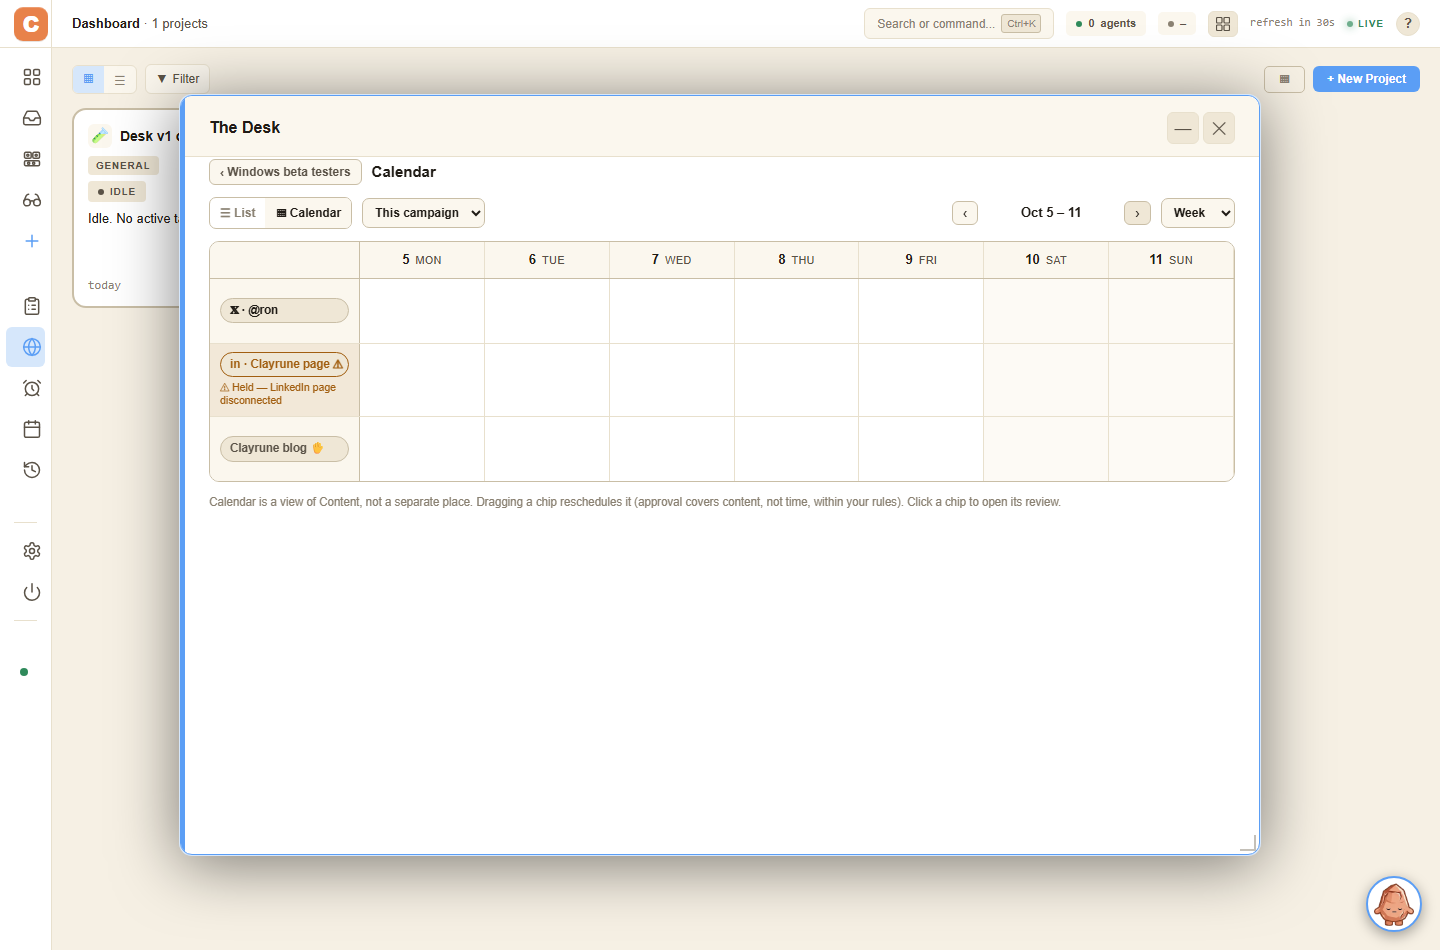
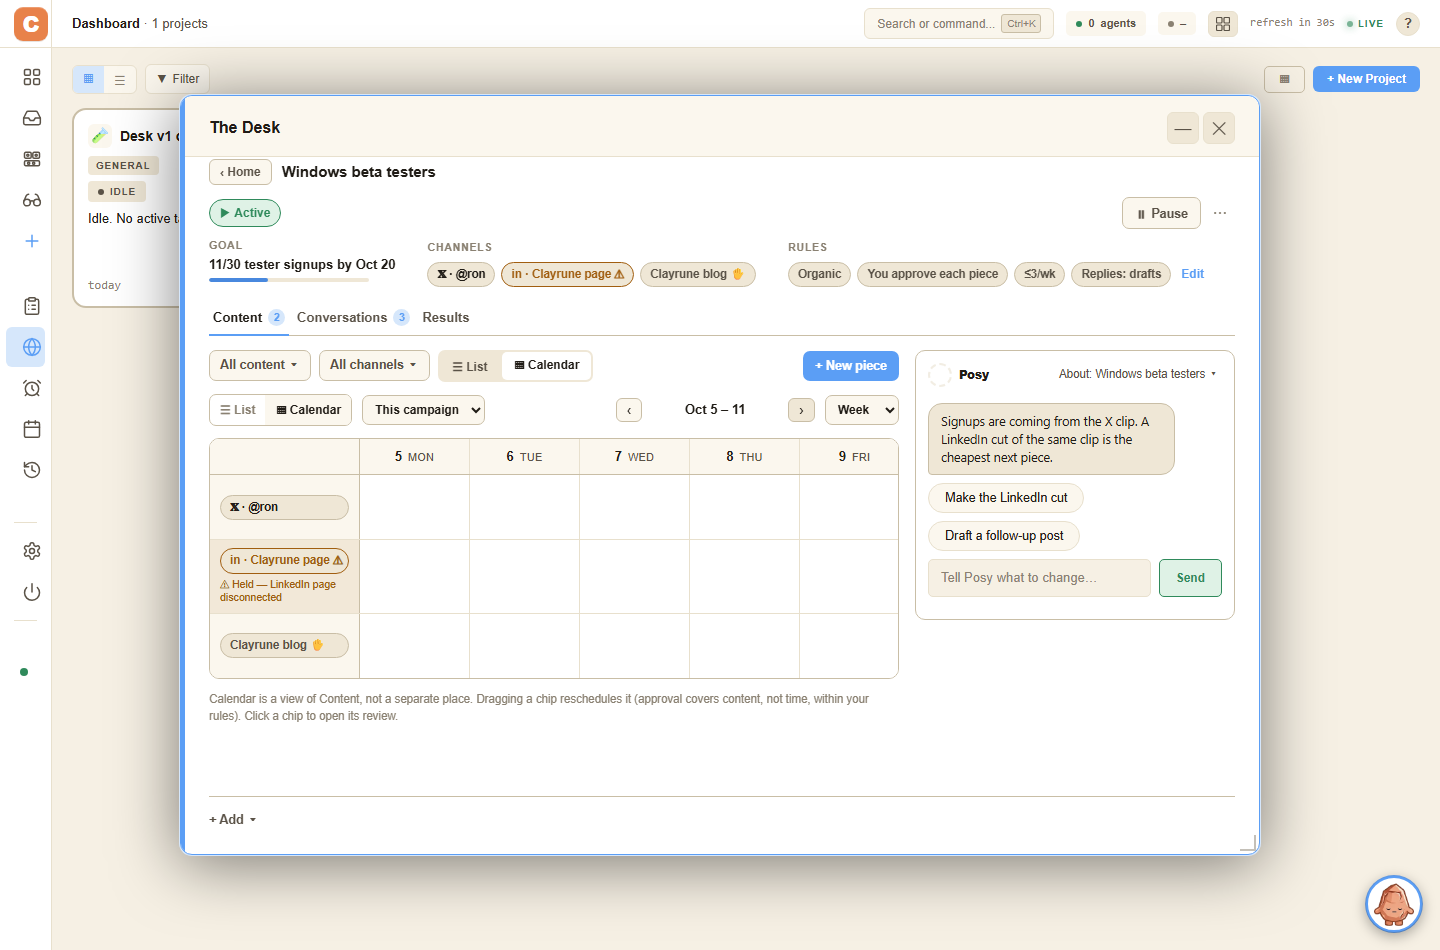
feat(MC-977): T2 — persistent campaign frame, in-place panels, Pause/Resume
Shell (desk-v1-shell.js): 'calendar'/'conversations'/'results' stop being
pushed routes. deskV1Nav aliases them to a new deskV1GotoCampaignPanel,
which patches the current campaign stack entry's params.panel in place
(same DOM node, no push) when already on that campaign, or pushes a fresh
campaign entry otherwise. _renderCampaignSkeleton now only fills the
summary/rightcol/addtray slots once; a new _renderCampaignPanel fills
just the tabstrip + tabbody, so a tab click never rebuilds the header or
Posy box. 'calendar' carries a one-shot calendarView flag into the
Content panel's existing List/Calendar toggle (T2a) rather than owning a
tab of its own.

Campaign (desk-v1-campaign.js): tab strip buttons call
deskV1GotoCampaignPanel instead of deskV1Nav; aria-selected reflects
params.panel. Added Pause/Resume (§6.2): a paused campaign's summary bar
shows Resume, which opens a confirm sheet naming the upcoming affected
work, then re-validates via DeskV1Kit.validatePlan plus an expiry check
(end date passed, post cap reached, a destination held). Spec's "Resume
routes to step 4" has no step 4 on this branch (T2 depends only on T1,
not T4/T5's setup wizard) — routes to the already-built rules-edit
popover instead with a toast naming why, rather than inventing the page.

Fixtures (desk-v1-fixtures.js): camp-1 (the one Active fixture campaign)
gets a `plan` object so Pause/Resume's validatePlan gate has something to
[…]

diff --git a/static/js/desk-v1-campaign.js b/static/js/desk-v1-campaign.js
@@ -116,7 +116,9 @@
       <div class="desk-v1-camp-summary-top">
         ${stateHTML}
         <div class="desk-v1-camp-summary-top-actions">
-          <button type="button" class="desk-v1-camp-pause-btn" data-pause-btn ${camp.state !== 'active' ? 'disabled' : ''}>⏸ Pause</button>
+          ${camp.state === 'paused'
+            ? `<button type="button" class="desk-v1-camp-pause-btn" data-resume-btn>▶ Resume</button>`
+            : `<button type="button" class="desk-v1-camp-pause-btn" data-pause-btn ${camp.state !== 'active' ? 'disabled' : ''}>⏸ Pause</button>`}
           ${camp.state !== 'archived' ? `<div class="desk-v1-camp-card-more">
             <button type="button" class="desk-v1-camp-card-morebtn" data-camp-more-btn aria-haspopup="menu" aria-label="More actions">⋯</button>
           </div>` : ''}
@@ -129,7 +131,7 @@
       </div>`;
 
     const goalBtn = el.querySelector('[data-goal-btn]');
-    if (goalBtn) goalBtn.onclick = () => deskV1Nav('results', { campaignId: camp.id });
+    if (goalBtn) goalBtn.onclick = () => window.deskV1GotoCampaignPanel('results', { campaignId: camp.id });
     const moreBtn = el.querySelector('[data-camp-more-btn]');
     if (moreBtn) moreBtn.onclick = (e) => {
       e.stopPropagation();
@@ -150,6 +152,8 @@
         undo: () => { camp.state = prev; deskV1FillCampaignSummary(el, params); },
       });
     };
+    const resumeBtn = el.querySelector('[data-resume-btn]');
+    if (resumeBtn) resumeBtn.onclick = () => _openResumeSheet(camp, el, params);
     // T2b owns the rules popover itself (docs/desk_v1_r0_plan.md T2a scope:
     // "Rule chips get an Edit hook only; the popover itself is T2b") — this
     // hook is the backward-compatible seam: undefined today, T2b defines
@@ -159,6 +163,73 @@
       if (typeof window.deskV1OpenRulesPopover === 'function') window.deskV1OpenRulesPopover(camp.id);
       else DeskV1Kit.toast('Editing rules lands with the rules popover (T2b).');
     };
+  }
+
+  // ── Pause / Resume (§6.2) ──────────────────────────────────────────────
+  // Resuming isn't a silent restart: it shows the upcoming work affected,
+  // then re-validates the plan (§4's shared `validatePlan` gate) plus an
+  // expiry check the bound table itself doesn't cover (an end date that has
+  // since passed, a post cap already reached, or a destination that went
+  // held while paused). `_isoToday()` mirrors desk-v1-rules.js's own
+  // `_isPastLocal` local-date convention rather than importing it (no
+  // cross-module import in static/js).
+  function _isoToday() {
+    const d = new Date();
+    return `${d.getFullYear()}-${String(d.getMonth() + 1).padStart(2, '0')}-${String(d.getDate()).padStart(2, '0')}`;
+  }
+  function _planExpiryReason(plan) {
+    if (!plan) return null;
+    if (plan.end && plan.end.date && plan.end.date < _isoToday()) return 'its end date has passed';
+    if (plan.end && plan.end.post_cap != null && plan.end.post_cap <= 0) return 'its post cap is reached';
+    const held = (plan.destinations || []).find((d) => { const ch = _channel(d.account); return ch && ch.health === 'held'; });
+    if (held) return `${(_channel(held.account) || {}).label || held.account} is held`;
+    return null;
+  }
+
+  // "3 posts resume: Tue 09:00 …" (§6.2) — the earliest still-scheduled
+  // version's own slot, same `_fmtWhenShort` weekday/time formatting the
+  // content cards already use for a scheduled version's detail line.
+  function _upcomingResumeText(camp) {
+    const versions = [];
+    _familiesFor(camp.id).forEach((f) => (f.versions || []).forEach((v) => {
+      if (_SCHEDULED_STATES.has(v.state) && v.publishAt) versions.push(v);
+    }));
+    versions.sort((a, b) => (a.publishAt < b.publishAt ? -1 : 1));
+    if (!versions.length) return 'Resuming restarts this campaign’s cadence. Missed slots are skipped, never posted late.';
+    const first = _fmtWhenShort(versions[0].publishAt);
+    const ch = _channel(versions[0].channelId);
+    const plural = versions.length === 1 ? 'post resumes' : 'posts resume';
+    return `${versions.length} ${plural}: ${first}${ch ? ` on ${ch.label}` : ''}. Missed slots are skipped, never posted late.`;
+  }
+
+  function _openResumeSheet(camp, summaryEl, params) {
+    DeskV1Kit.openConfirmSheet({
+      title: `Resume “${camp.name}”?`,
+      body: _upcomingResumeText(camp),
+      confirmLabel: 'Resume', cancelLabel: 'Cancel',
+      onConfirm: () => {
+        const validity = DeskV1Kit.validatePlan(camp.plan);
+        const expiryReason = _planExpiryReason(camp.plan);
+        if (!validity.ok || expiryReason) {
+          const reason = expiryReason || `it's missing ${validity.missing.map((m) => m.label).join(', ')}`;
+          // §6.2: "Resume routes to step 4 with only the changed terms, not
+          // a silent restart." Setup's step 4 (Review + start) is T4/T5,
+          // not built on this branch (T2 depends only on T1) — rather than
+          // invent that page, the nearest already-built surface for
+          // changing plan terms (the rules-edit popover, T2b) opens
+          // instead, and the toast says exactly why Resume didn't happen.
+          if (typeof window.deskV1OpenRulesPopover === 'function') window.deskV1OpenRulesPopover(camp.id);
+          DeskV1Kit.toast(`Can’t resume “${camp.name}” — ${reason}. Fix it, then resume.`);
+          return;
+        }
+        const prev = camp.state;
+        DeskV1Kit.commandBus.run({
+          label: `Resumed “${camp.name}”`,
+          do: () => { camp.state = 'active'; deskV1FillCampaignSummary(summaryEl, params); },
+          undo: () => { camp.state = prev; deskV1FillCampaignSummary(summaryEl, params); },
+        });
+      },
+    });
   }
 
   // ── Delete / Archive (item 3, MC-977 R0 UX pass; scope note from Dave/
@@ -305,6 +376,7 @@
   // ────────────────────────────────────────────────────────────────────────
   function deskV1FillCampaignTabStrip(el, params) {
     const campaignId = params.campaignId;
+    const panel = params.panel || 'content';
     const contentCount = _needsYouCount(campaignId);
     // §3.1: "Badge counts are needs-you items only" — for BOTH tabs. A reply
     // waiting ('needs_reply') or a row flagged for you ('needs_you'); stale,
@@ -314,12 +386,17 @@
       .filter((c) => c.state === 'needs_reply' || c.state === 'needs_you').length;
     el.innerHTML = `
       <div class="desk-v1-camp-tabs" role="tablist">
-        <button type="button" class="desk-v1-camp-tab" aria-selected="true" data-tab="content">Content${contentCount ? ` <span class="desk-v1-camp-tab-badge">${esc(contentCount)}</span>` : ''}</button>
-        <button type="button" class="desk-v1-camp-tab" aria-selected="false" data-tab="conversations">Conversations${convCount ? ` <span class="desk-v1-camp-tab-badge">${esc(convCount)}</span>` : ''}</button>
-        <button type="button" class="desk-v1-camp-tab" aria-selected="false" data-tab="results">Results</button>
+        <button type="button" class="desk-v1-camp-tab" aria-selected="${panel === 'content'}" data-tab="content">Content${contentCount ? ` <span class="desk-v1-camp-tab-badge">${esc(contentCount)}</span>` : ''}</button>
+        <button type="button" class="desk-v1-camp-tab" aria-selected="${panel === 'conversations'}" data-tab="conversations">Conversations${convCount ? ` <span class="desk-v1-camp-tab-badge">${esc(convCount)}</span>` : ''}</button>
+        <button type="button" class="desk-v1-camp-tab" aria-selected="${panel === 'results'}" data-tab="results">Results</button>
       </div>`;
-    el.querySelector('[data-tab="conversations"]').onclick = () => deskV1Nav('conversations', { campaignId });
-    el.querySelector('[data-tab="results"]').onclick = () => deskV1Nav('results', { campaignId });
+    // §2: tabs switch the panel IN PLACE — `deskV1GotoCampaignPanel` patches
+    // the current `campaign` stack entry's params rather than pushing a new
+    // one, so the frame this tab strip lives in is never rebuilt by a click
+    // on itself (desk-v1-shell.js's `_gotoCampaignPanel`).
+    el.querySelector('[data-tab="content"]').onclick = () => window.deskV1GotoCampaignPanel('content', { campaignId });
+    el.querySelector('[data-tab="conversations"]').onclick = () => window.deskV1GotoCampaignPanel('conversations', { campaignId });
+    el.querySelector('[data-tab="results"]').onclick = () => window.deskV1GotoCampaignPanel('results', { campaignId });
   }
 
   // ────────────────────────────────────────────────────────────────────────
@@ -348,6 +425,11 @@
       return;
     }
     const st = _ensureState(params.campaignId);
+    // §2/§8 calendar alias: `deskV1Nav('calendar', {campaignId})` lands on
+    // this same Content panel and asks it to open in calendar view once —
+    // consumed and dropped here so a later plain Content-tab click doesn't
+    // keep forcing calendar view back on.
+    if (params.calendarView) { st.view = 'calendar'; delete params.calendarView; }
     st.el = el;
     _renderTabBody();
   }

diff --git a/static/js/desk-v1-shell.js b/static/js/desk-v1-shell.js
@@ -26,14 +26,22 @@
     // route's back-button text (see _routeLabel/deskV1Render above), so a
     // future child of review would need a real label again.
     review:        { parent: 'campaign', label: '',             render: () => window.deskV1RenderReview },
-    calendar:      { parent: 'campaign', label: 'Calendar',     render: () => window.deskV1RenderCalendar },
     // Dynamic like _campaignLabel above: frame 12d's crumb title is the video
     // family's own title ("Install in two minutes"), not the static word
     // "Video" — falls back to it during intake (no family picked yet).
     video:         { parent: 'campaign', label: _videoLabel,   render: () => window.deskV1RenderVideo },
-    conversations: { parent: 'campaign', label: 'Conversations', render: () => window.deskV1RenderConversations },
-    results:       { parent: 'campaign', label: 'Results',      render: () => window.deskV1RenderResults },
   };
+
+  // T2 (§2, §8): conversations/results/calendar stop being separate routes —
+  // `deskV1Nav('results'|'conversations'|'calendar', params)` still works
+  // (existing deep links: Home's Needs-you row, the goal button, old smoke
+  // navigation) but now resolves to the persistent `campaign` frame with a
+  // panel switch instead of pushing a whole new stack entry/page. `calendar`
+  // has no tab of its own (it is the Content tab's List/Calendar toggle,
+  // T2a) — its alias lands on the `content` panel and asks it to switch to
+  // calendar view once (`calendarView`, consumed by
+  // deskV1FillCampaignTabBody and then dropped).
+  const PANEL_ALIASES = { results: 'results', conversations: 'conversations', calendar: 'content' };
 
   function _campaignLabel(params) {
     const camps = (window.DeskV1Fixtures && window.DeskV1Fixtures.campaigns) || [];
@@ -60,8 +68,37 @@
   let _stack = [];
 
   function deskV1Nav(route, params) {
+    params = params || {};
+    if (Object.prototype.hasOwnProperty.call(PANEL_ALIASES, route)) {
+      const panelParams = route === 'calendar' ? Object.assign({}, params, { calendarView: true }) : params;
+      _gotoCampaignPanel(PANEL_ALIASES[route], panelParams);
+      return;
+    }
     if (!ROUTES[route]) return;
-    _stack.push({ route, params: params || {} });
+    _stack.push({ route, params });
+    deskV1Render();
+  }
+
+  // Same-campaign panel switch stays on the `campaign` stack entry (in place:
+  // no push, header/summary/Posy DOM untouched — only tabstrip + tabbody
+  // refill, §2's "route stays campaign with params.panel"); a panel request
+  // from anywhere else (Home, a different campaign) pushes a fresh campaign
+  // entry the same way a plain `deskV1Nav('campaign', ...)` always has.
+  // Params are REPLACED, not merged, on every call — carrying forward a
+  // stale `conversationId`/`versionId` from a previous visit across an
+  // in-place switch would silently keep re-selecting it.
+  function deskV1GotoCampaignPanel(panel, params) { _gotoCampaignPanel(panel, params || {}); }
+
+  function _gotoCampaignPanel(panel, params) {
+    const campaignId = params.campaignId;
+    const top = _stack[_stack.length - 1];
+    const nextParams = Object.assign({ campaignId }, params, { panel });
+    if (top && top.route === 'campaign' && top.params.campaignId === campaignId) {
+      top.params = nextParams;
+      _renderCampaignPanel(nextParams);
+      return;
+    }
+    _stack.push({ route: 'campaign', params: nextParams });
     deskV1Render();
   }
 
@@ -135,6 +172,12 @@
   // (desk-v1-campaign.js in T0a, replaced in place by T2a/T2b) provides — the
   // skeleton itself never changes when those hooks grow real content.
   function _renderCampaignSkeleton(el, params) {
+    // §2: "route stays campaign with params.panel" — a fresh/full mount
+    // (Home -> campaign, or a different campaign) always lands on Content
+    // unless the caller asked for another panel (an aliased deep link).
+    // Mutating `params` in place (the same object the stack entry holds) so
+    // a later in-place switch reads the same default without a second nav.
+    if (!params.panel) params.panel = 'content';
     el.innerHTML = `
       <div class="desk-v1-campaign">
         <div class="desk-v1-camp-summary" id="desk-v1-camp-summary"></div>
@@ -147,14 +190,34 @@
       </div>`;
     const slots = [
       ['desk-v1-camp-summary', window.deskV1FillCampaignSummary],
-      ['desk-v1-camp-tabstrip', window.deskV1FillCampaignTabStrip],
-      ['desk-v1-camp-tabbody', window.deskV1FillCampaignTabBody],
       ['desk-v1-camp-rightcol', window.deskV1FillCampaignRightColumn],
       ['desk-v1-camp-addtray', window.deskV1FillCampaignAddTray],
     ];
     for (const [id, fill] of slots) {
       const slotEl = document.getElementById(id);
       if (slotEl && typeof fill === 'function') fill(slotEl, params);
+    }
+    _renderCampaignPanel(params);
+  }
+
+  // Fills ONLY the tab strip + tab body — never touches summary/rightcol/
+  // addtray, so a same-campaign panel switch (`_gotoCampaignPanel`'s
+  // in-place branch) leaves the header, summary bar and Posy box as the SAME
+  // DOM elements (T2 acceptance: "tab click keeps header + Posy DOM node").
+  function _renderCampaignPanel(params) {
+    const tabstripEl = document.getElementById('desk-v1-camp-tabstrip');
+    if (tabstripEl && typeof window.deskV1FillCampaignTabStrip === 'function') window.deskV1FillCampaignTabStrip(tabstripEl, params);
+    const tabbodyEl = document.getElementById('desk-v1-camp-tabbody');
+    if (!tabbodyEl) return;
+    const panel = params.panel || 'content';
+    if (panel === 'conversations' && typeof window.deskV1RenderConversations === 'function') {
+      window.deskV1RenderConversations(tabbodyEl, params);
+    } else if (panel === 'results' && typeof window.deskV1RenderResults === 'function') {
+      window.deskV1RenderResults(tabbodyEl, params);
+    } else if (typeof window.deskV1FillCampaignTabBody === 'function') {
+      window.deskV1FillCampaignTabBody(tabbodyEl, params);
+    } else {
+      tabbodyEl.innerHTML = `<div class="desk-v1-stub-inline">${esc(panel)} is not built yet.</div>`;
     }
   }
 
@@ -204,4 +267,5 @@
   window.deskV1Render = deskV1Render;
   window.deskV1PatchParams = deskV1PatchParams;
   window.deskV1PopTo = deskV1PopTo;
+  window.deskV1GotoCampaignPanel = deskV1GotoCampaignPanel;
 })();

diff --git a/static/js/desk-v1-fixtures.js b/static/js/desk-v1-fixtures.js
@@ -28,6 +28,35 @@
         repliesMode: 'drafts', // 'drafts' | 'auto_faq'
         paid: false,
       },
+      // ── T2 (MC-977 UX pass §4/§6.2): Pause/Resume gates on `validatePlan`,
+      // which reads `plan`, not `rules`/`goal` — camp-1 is the one Active
+      // fixture campaign and had no `plan` yet (T1 only added it to camp-2).
+      // `goal`/`rules` above are LEFT AS-IS, not deleted: `reviewMode` has no
+      // field in §4's plan shape, and `goal.current` (live progress) has no
+      // plan equivalent either — deleting them would blank the summary bar's
+      // review-mode chip and progress bar, which this ticket doesn't touch.
+      // Values mirror the existing goal/rules/channelIds above so nothing
+      // user-visible changes; `end.date` matches `goal.deadline` since this
+      // campaign has always run to its goal date.
+      plan: {
+        brief: 'Windows users trying Claude Code should hear about the beta and sign up as testers.',
+        title: 'Windows beta testers',
+        source_projects: ['clayrune'],
+        audience: 'Windows users trying Claude Code',
+        goal: { outcome: 'tester signups', target: 30, deadline: '2026-10-20', tracked: true },
+        destinations: [
+          { account: 'ch-x-ron', voice: 'Ron (first person)' },
+          { account: 'ch-li-page', voice: 'Clayrune page' },
+          { account: 'ch-blog', voice: 'Clayrune blog' },
+        ],
+        angle: 'Show the restore-points and install flow working end to end so trying the beta feels low-risk.',
+        samples: [],
+        cadence: { per_week: 3, min_gap_h: 12 },
+        end: { date: '2026-10-20', post_cap: null },
+        replies: 'drafts',
+        paid: false,
+        generation: 'No video generation planned for this campaign',
+      },
     },
   ];
 
